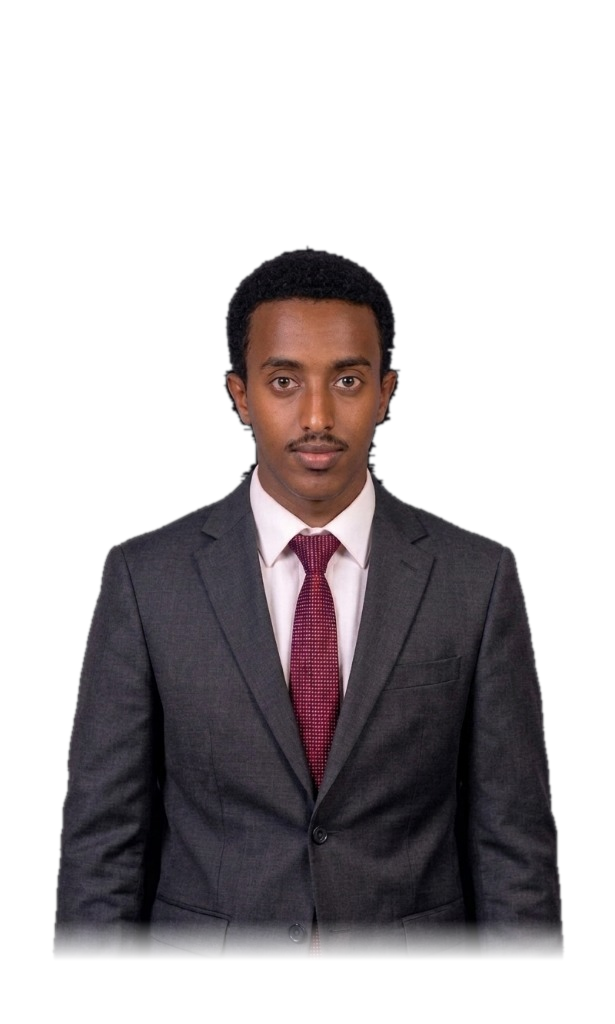
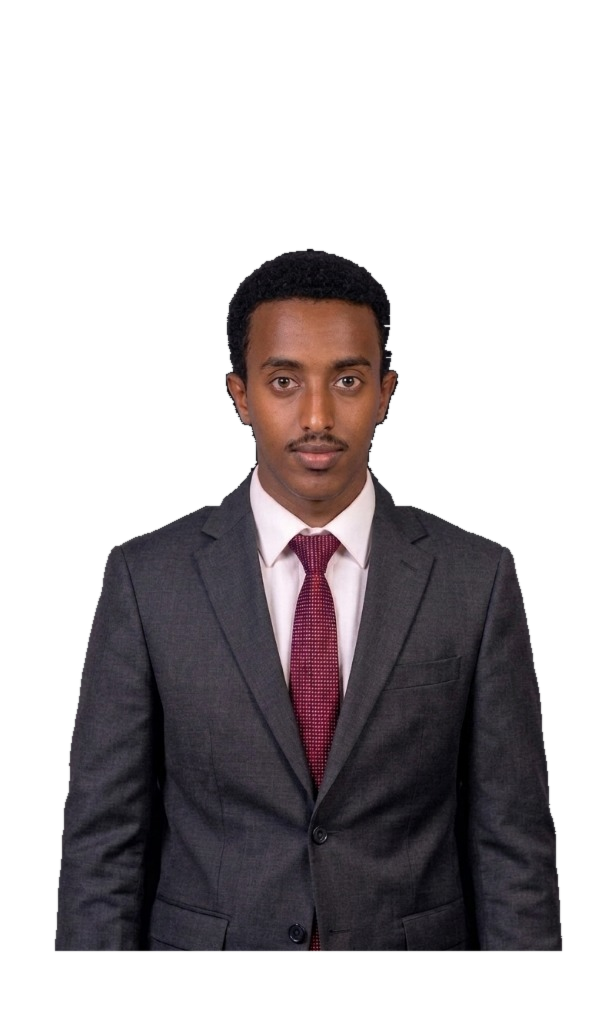
Refine hero portrait: clean neck edges, remove black borders, and fix light mode shadow/mask

diff --git a/style.css b/style.css
@@ -982,9 +982,7 @@ ul, ol {
   max-height: 530px;
   object-fit: cover;
   object-position: center top;
-  mask-image: linear-gradient(to bottom, black 80%, transparent 100%);
-  -webkit-mask-image: linear-gradient(to bottom, black 80%, transparent 100%);
-  filter: drop-shadow(0 20px 30px rgba(0, 0, 0, 0.5));
+  filter: drop-shadow(0 15px 30px rgba(0, 0, 0, 0.35));
   transition: transform 0.5s ease;
 }
 
@@ -1100,6 +1098,12 @@ ul, ol {
 
 [data-theme="light"] .floating-orb {
   background: radial-gradient(circle at 35% 30%, #94a3b8 0%, #64748b 45%, #334155 80%, #0f172a 100%);
+}
+
+[data-theme="light"] .hero-portrait-img {
+  mask-image: none;
+  -webkit-mask-image: none;
+  filter: drop-shadow(0 15px 30px rgba(15, 23, 42, 0.08));
 }
 
 /* ==========================================================================
